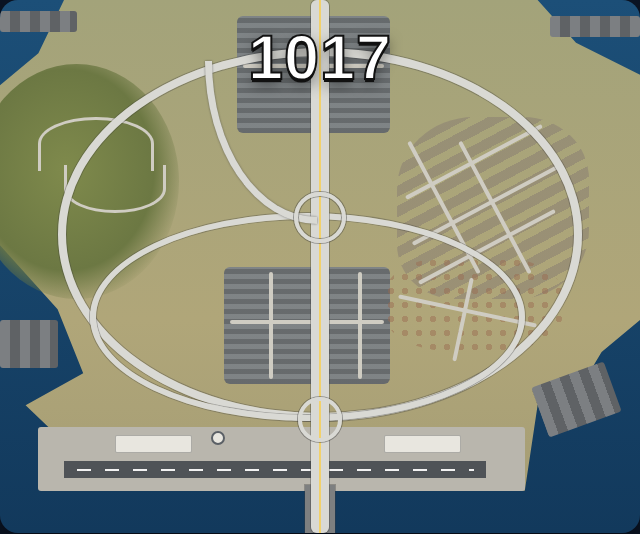
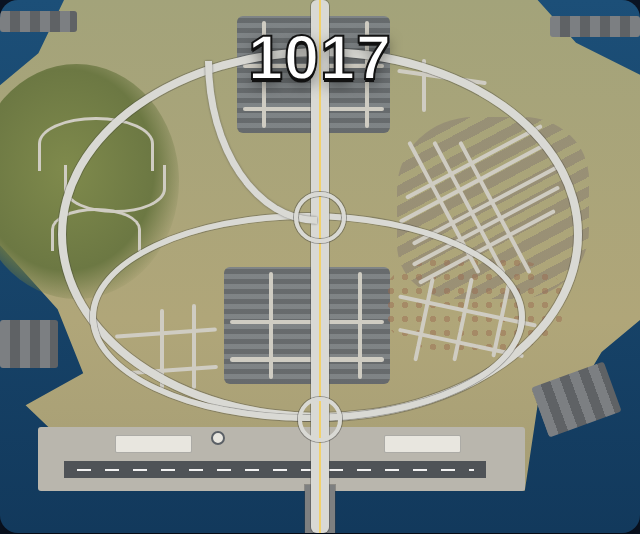
Add side streets to the 1017 inner city
Grid through the north towers, a crosstown in the south towers, streets
north-east and south-west, more rows through the east apartments and
south-east houses. The hill stays grid-free: one more switchback only.

Claude-Session: https://claude.ai/code/session_01FagBtygwPmHUod4bPZTnD1

diff --git a/1017-inner-city.html b/1017-inner-city.html
@@ -109,6 +109,31 @@
   .dt-2 { left: 36%; top: 60%; width: 24%; }
   .dt-3 { left: 42%; top: 51%; width: .6%; height: 20%; }
   .dt-4 { left: 56%; top: 51%; width: .6%; height: 20%; }
+  /* north towers — a tight grid either side of the spine */
+  .dt-5 { left: 38%; top: 20%; width: 22%; }
+  .dt-6 { left: 41%; top: 4%;  width: .6%; height: 20%; }
+  .dt-7 { left: 57%; top: 4%;  width: .6%; height: 20%; }
+  /* south towers — one more crosstown */
+  .dt-8 { left: 36%; top: 67%; width: 24%; }
+  /* north-east, between the towers and the Perimeter */
+  .ne-1 { left: 62%; top: 14%; width: 14%; transform: rotate(8deg); }
+  .ne-2 { left: 66%; top: 11%; width: .6%; height: 10%; }
+  /* east grid — two more rows through the apartments */
+  .grid-8 { left: 61%; top: 34%; width: 26%; transform: rotate(-28deg); }
+  .grid-9 { left: 63%; top: 42%; width: 26%; transform: rotate(-28deg); }
+  .grid-10 { left: 73%; top: 25%; width: .6%; height: 28%; transform: rotate(-28deg); }
+  /* south-east houses — fill out the grid */
+  .grid-11 { left: 62%; top: 64%; width: 20%; transform: rotate(12deg); }
+  .grid-12 { left: 66%; top: 52%; width: .6%; height: 16%; transform: rotate(12deg); }
+  .grid-13 { left: 78%; top: 53%; width: .6%; height: 14%; transform: rotate(12deg); }
+  /* south-west, inside the Inner Loop, below the hill's foot */
+  .sw-1 { left: 18%; top: 62%; width: 16%; transform: rotate(-4deg); }
+  .sw-2 { left: 20%; top: 69%; width: 14%; transform: rotate(-4deg); }
+  .sw-3 { left: 25%; top: 58%; width: .6%; height: 15%; }
+  .sw-4 { left: 30%; top: 57%; width: .6%; height: 16%; }
+  /* the hill keeps its switchbacks — no grid on the mountain, just one more bend down to the Perimeter */
+  .hill-3 { position: absolute; left: 8%; top: 39%; width: 14%; height: 8%; z-index: 1;
+            border: 3px solid #cfccc2; border-bottom: none; border-radius: 50% 50% 0 0; }
 
   /* ---- the airport: apron, runway, terminals ---- */
   .apron { position: absolute; left: 6%; top: 80%; width: 76%; height: 12%;
@@ -174,6 +199,23 @@
     <div class="street dt-2"></div>
     <div class="street dt-3"></div>
     <div class="street dt-4"></div>
+    <div class="street dt-5"></div>
+    <div class="street dt-6"></div>
+    <div class="street dt-7"></div>
+    <div class="street dt-8"></div>
+    <div class="street ne-1"></div>
+    <div class="street ne-2"></div>
+    <div class="street grid-8"></div>
+    <div class="street grid-9"></div>
+    <div class="street grid-10"></div>
+    <div class="street grid-11"></div>
+    <div class="street grid-12"></div>
+    <div class="street grid-13"></div>
+    <div class="street sw-1"></div>
+    <div class="street sw-2"></div>
+    <div class="street sw-3"></div>
+    <div class="street sw-4"></div>
+    <div class="hill-3"></div>
 
     <!-- main roads -->
     <div class="ring perimeter"></div>
